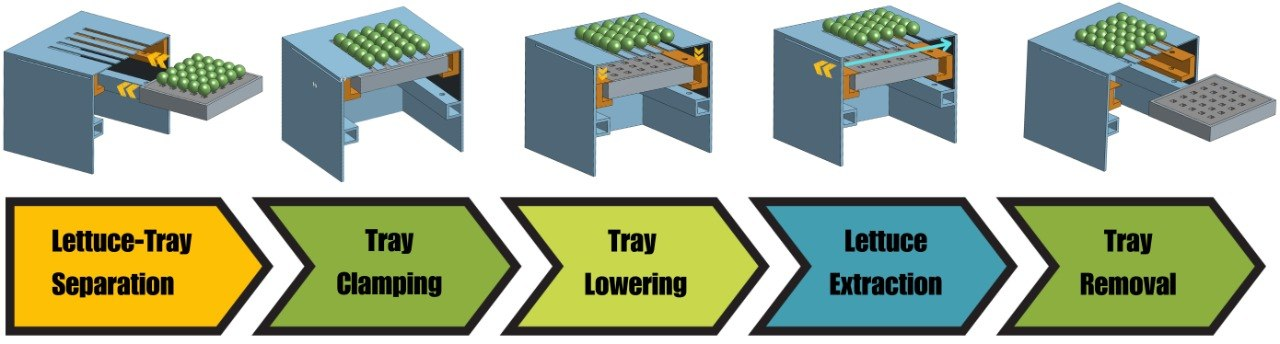
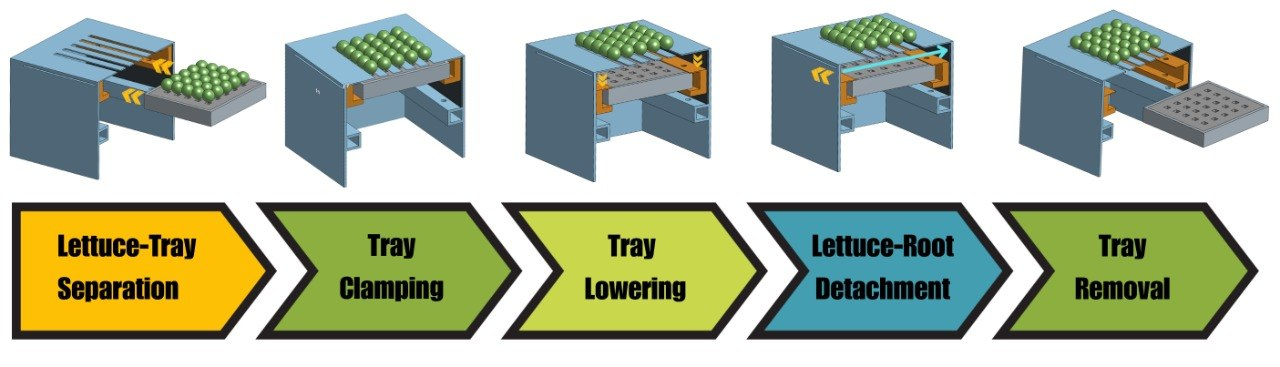
hi

diff --git a/index.html b/index.html
@@ -180,7 +180,7 @@
 
     <!-- 3.5 -->
     <sl-tree-item expanded>
-      <a href="#section-3-5">3.5 Lettuce Cutting</a>
+      <a href="#section-3-5">3.5 Lettuce-Root Detachment</a>
 
       <sl-tree-item>
         <a href="#section-3-5-1">3.5.1 Concept Selection Matrix</a>
@@ -276,7 +276,20 @@
         <h3> 2.3. Design Estimates </h3>
         <div> <p> The design estimates outlined above translate operational constraints into measurable engineering specifications, ensuring that the proposed system remains both technically feasible and industrially relevant:</p> </div>
 
+        <image-component 
+          tag="image" 
+          source="assets/design_estimates_table_pt1.jpg"
+          subtitle=""
+        ></image-component>
+
+        <image-component 
+          tag="image" 
+          source="assets/design_estimates_table_pt2.jpg"
+          subtitle="Table 1: Design Estimates"
+        ></image-component>
+
         <h3> 2.4. Existing Solutions</h3>
+
         <div> <p> Existing solutions have focused on optimisation of other steps in leafy green production but there is limited work on compact, modular harvesting systems tailored specifically for hydroponic indoor farms.</p> </div>
         
           <h4> 2.4.1. Traditional Waterjet Applications in Agriculture </h4>
@@ -482,7 +495,14 @@
                   <h3> 3.4. Tray Lowering </h3>
 
                 <h4> 3.4.1. Concept Selection</h4>
-                  <div> <p> The refined concept selection matrix indicates that the reverse four-bar mechanism provides the most suitable balance of compactness, tray stability, conveyor compatibility, and implementation feasibility. Although the vertical linear lift offers the most direct vertical motion, it requires a taller and more constrained supporting architecture. The scissor lift remains a viable option and performs reasonably well in terms of vertical motion and tray support but is less favourable due to its bulkier packaging and greater mechanical complexity. The rotational-incline concept scored lowest because its changing tray orientation is not well aligned with the requirement for stable and repeatable presentation to the downstream waterjet cutting subsystem.</p> </div>
+                
+                <image-component 
+                    tag="image" 
+                    source="assets/tray_lowering_concept_selection_table.png"
+                    subtitle="Table X: CAD of Linkage System"
+                  ></image-component>
+
+                  <div> <p> The refined concept selection matrix indicates that the reverse four-bar mechanism provides the most suitable balance of trajectory control, design flexibility, and system integration within the given constraints. While the scissor lift performs comparably in terms of tray stability, repeatability, and conveyor compatibility, its limited flexibility in tailoring motion profiles and bulkier packaging make it less adaptable to the evolving system requirements. The vertical linear lift, although capable of precise vertical motion, necessitates a taller and more restrictive supporting architecture, reducing its feasibility within the current design envelope. The rotational-incline concept scored lowest, as its inherent change in tray orientation is fundamentally incompatible with the requirement for stable and repeatable presentation to the downstream waterjet cutting subsystem.</p> </div>
                 
                   <h4> 3.4.2. Kinematic Validation of the Four Bar Mechanism </h4>
                   <div> <p>  Geometric synthesis was carried out to explore the motion capabilities of the reverse four-bar linkage, with the primary objective of achieving a controlled tray-lowering trajectory compatible with the spatial and functional constraints of the harvesting system. Rather than prescribing a fixed vertical motion, the linkage was selected for its ability to generate a range of trajectories through variation of link lengths, pivot locations, and coupler point placement, enabling the motion to be tailored to system-level requirements.</p> </div>
@@ -514,10 +534,17 @@
                   <div> <p> The prototyping process highlighted the broader need to prioritise design for manufacturability and assembly (DFMA). Clearances became paramount with the number of moving components in the prototype. Features that were geometrically valid in CAD required modification to improve ease of assembly, alignment, and repeatability. This included refining hole tolerances, improving access for fastening, and simplifying part interfaces to reduce assembly complexity.  </p> </div>
           
           
-            <h3>3.5 Lettuce Cutting </h3>
-                
+            <h3>3.5 Lettuce-Root Detachment </h3>
+
                 <h4> 3.5.1. Concept Selection Matrix</h4>
-                  <div> <p>To identify a suitable stem separation method, four concepts were compared against the functional requirements of the system. The evaluation criteria were derived from the project objectives, with emphasis placed on cut quality, preservation of product quality, hydroponic compatibility, suitability for batch processing, maintainability, and feasibility within the project’s scope.  </p> </div>
+
+                  <div> <p> To identify a suitable stem separation method, four concepts were compared against the functional requirements of the system. The evaluation criteria were derived from the project objectives, with emphasis placed on cut quality, preservation of product quality, hydroponic compatibility, suitability for batch processing, maintainability, and feasibility within the project’s scope.  </p> </div>
+                  <image-component 
+                    tag="image" 
+                    source="assets/Lettuce_extraction_concept_selection_table.jpg"
+                    subtitle="Table X: CAD of Full System"
+                  ></image-component>
+
                   <div> <p>Among the concepts considered, waterjet cutting achieved the highest weighted score. This was primarily due to its non-contact cutting action, reduced risk of tissue compression, compatibility with wet hydroponic environments, and strong potential for repeatable batch operation. By contrast, laser cutting was disadvantaged by thermal damage risk, mechanical blades by wear and contact-induced bruising, and rope-based cutting by inconsistent separation and contamination concerns. </p> </div>
                   <div> <p>Waterjet cutting preserves lettuce quality and extends shelf life due to its non-contact, low-damage cutting mechanism. Unlike mechanical blades, which introduce compressive forces and tissue tearing, waterjets minimise cellular disruption at the cut interface. This reduces the release of intracellular fluids that accelerate enzymatic browning and microbial growth. Additionally, the waterjet process can help remove damaged cells and surface contaminants during cutting, resulting in lower initial microbial loads. As a result, waterjet-cut lettuce exhibits reduced discoloration and slower degradation, contributing to improved freshness and extended shelf life compared to conventional cutting methods (Hasish, 2025). </p> </div>
 
@@ -527,7 +554,6 @@
                 <h4> 3.5.3. FedJet Testing </h4>
                 <div> <p>To validate the feasibility of the selected concept, industry consultation was conducted with FedJet, a company specialising in waterjet technologies. Through this engagement, preliminary testing was performed on lettuce stems using a waterjet system, demonstrating that clean and effective separation is achievable under controlled conditions. These findings provide practical confirmation that waterjet-based cutting is a viable approach for harvesting lettuce, supporting its selection for further development in this project. </p> </div>
                 
-
 
             <h3>3.6 Complete CAD </h3>
                 
